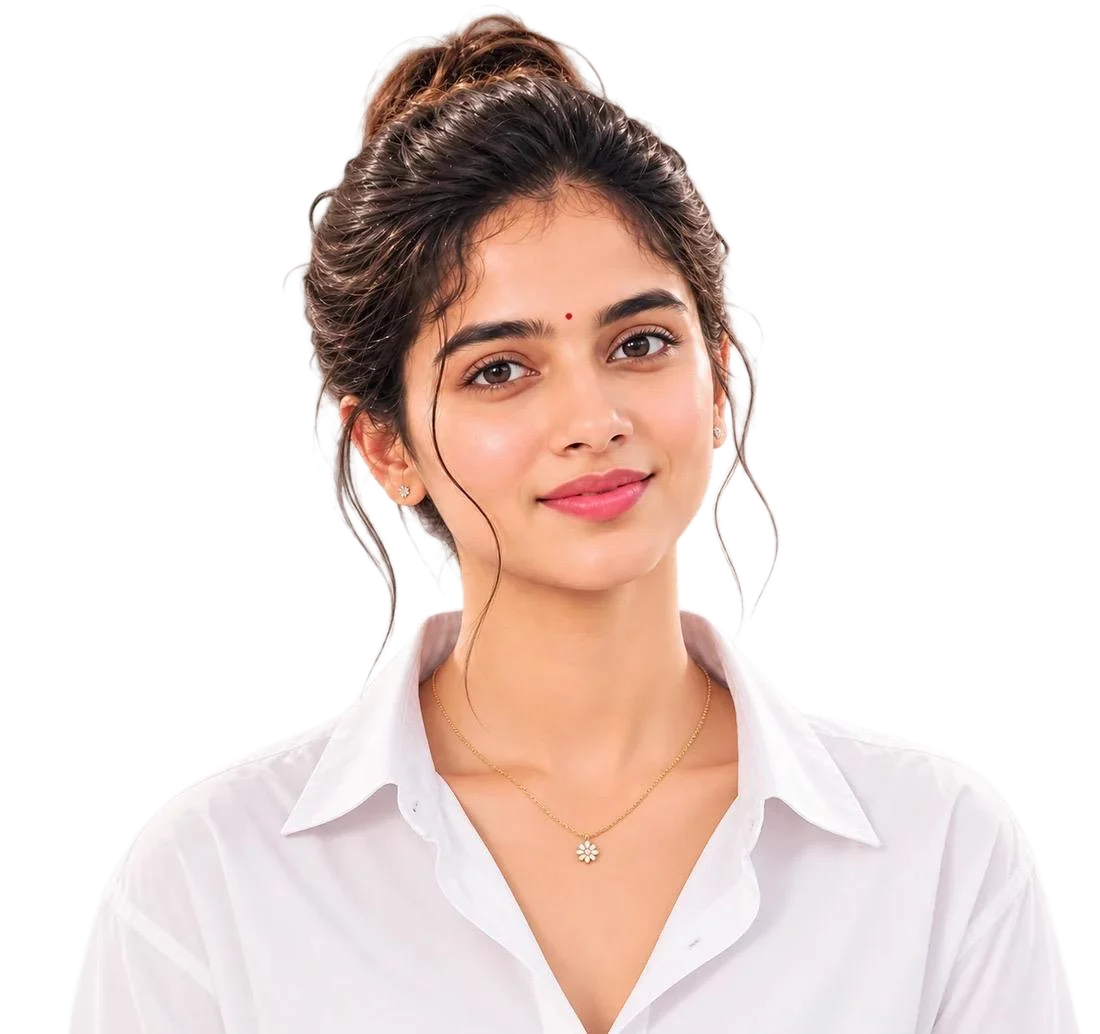
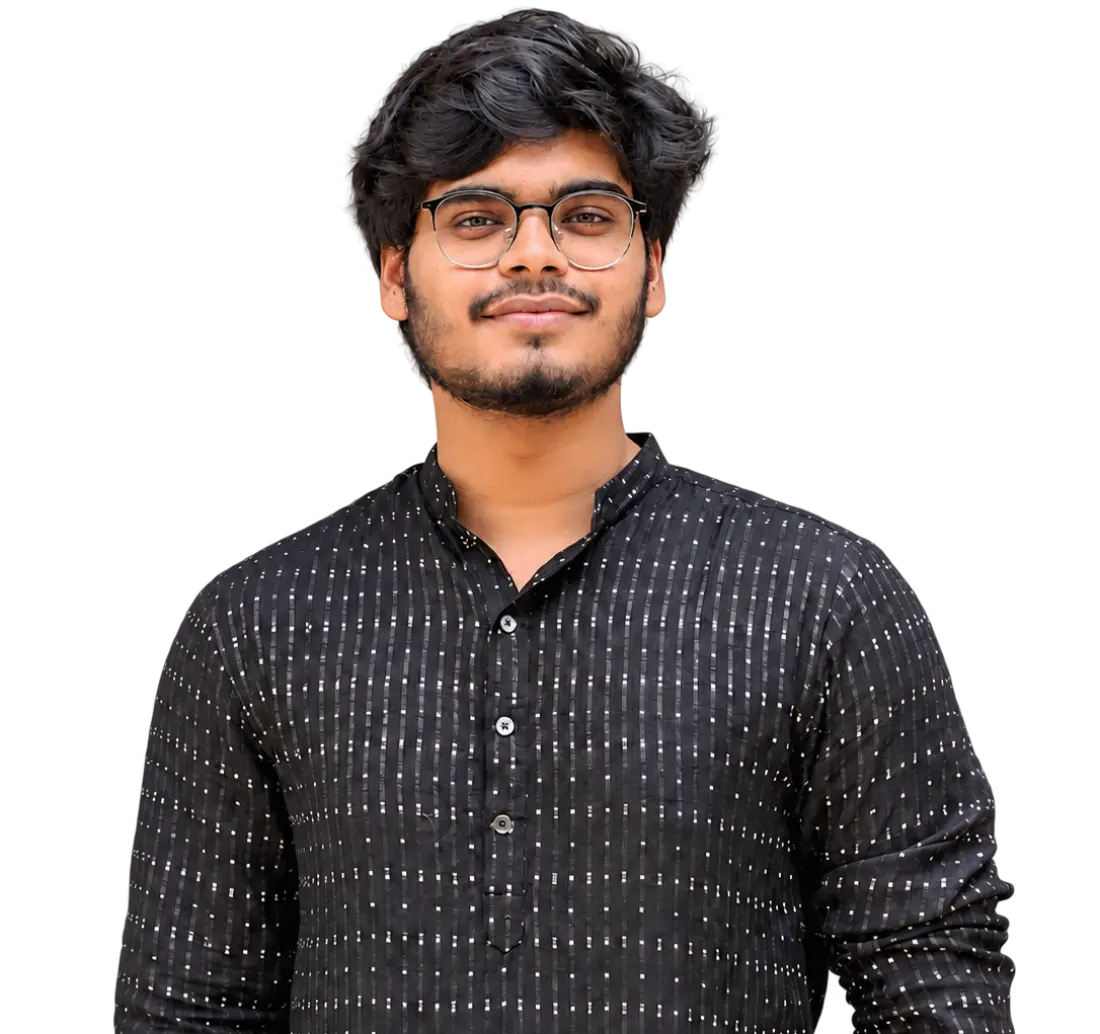
feat: add portfolio data and image generation script for optimized portrait assets

diff --git a/src/data/portfolio.ts b/src/data/portfolio.ts
@@ -8,13 +8,13 @@ export type Palette = { from: string; via: string; to: string; accent: string };
 
 export const profile = {
   fullName: 'Dasari Venkata Ratna Sri Sushmita',
-  displayName: 'Sushmita Dasari',
-  firstName: 'SUSHMITA',
+  displayName: 'Piyush Kumar',
+  firstName: 'PIYUSH',
   seriesTag: 'THE SERIES',
   /** Fictional studio card shown at the very start of the opening sequence. */
-  originalLabel: 'A DASARI ORIGINAL',
-  role: 'Full-Stack Developer',
-  tagline: ['Full-Stack Developer', 'AI / ML', 'Java'],
+  originalLabel: 'A PIYUSH ORIGINAL',
+  role: 'Web Developer',
+  tagline: ['Web Developer', 'MERN Stack', 'C++'],
   intro:
     'A B.Tech Artificial Intelligence & Machine Learning student (CGPA 9.10) and full-stack developer building AI-powered platforms, payment systems and multi-tenant SaaS with Java, Python, React, Node.js and Docker.',
   location: 'Surampalem, Andhra Pradesh',
